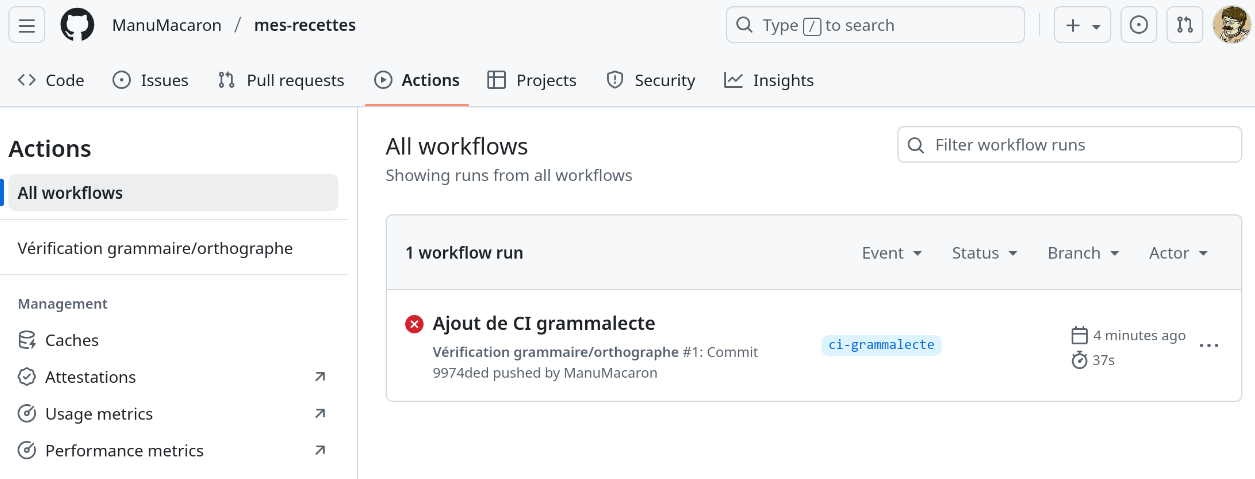
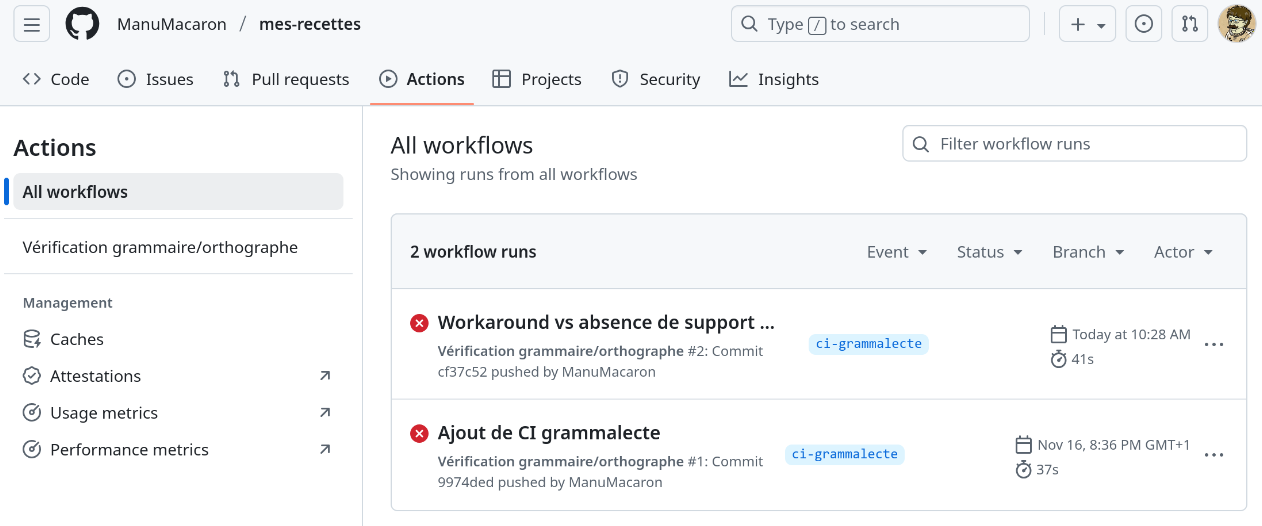
Fin du portage du chapitre CI

diff --git a/TP/src/part2/github/4-depot-personnel/3-integration-continue.md b/TP/src/part2/github/4-depot-personnel/3-integration-continue.md
@@ -342,7 +342,7 @@ jobs:
         run: python -m pip install git+https://gitlab.in2p3.fr/sonny.lion/grammalint.git
       - name: Extraction des fichiers
         uses: actions/checkout@v5
-      - name: Vérification de la grammaire/orthographe
+      - name: Exécution de grammalint
         run: python -m grammalint -i recettes/**/*.md
 ```
 
@@ -356,14 +356,14 @@ Rendez-vous ensuite dans l’interface web de GitHub, onglet **Actions**, pour
 observer le _workflow_ en action. Vous devriez voir une page similaire à
 celle-ci :
 
-![Interface GitHub - Actions](../../../images/github-actions-tab.png)
+![Onglet Actions de l'interface GitHub](../../../images/github-actions-tab.png)
 
 Dans la table de droite, chaque ligne correspond à l'exécution d'un _workflow_
 et se structure de la façon suivante :
 
-- D'abord un petit pictogramme qui indique si l'exécution a réussi ou échoué.
-  Ici, nous avons une croix rouge qui signale un échec. En cas de réussite ce
-  serait une coche verte.
+- D'abord un petit pictogramme qui indique si l'exécution est en cours (point
+  jaune), a réussi (coche verte) ou échoué (croix rouge). Ici, hélas, toutes les
+  exécutions ont échoué.
 - Ensuite un titre qui est par défaut tiré du message de commit. Vous pouvez
   le personnaliser avec l'option de _workflow_
   [`run-name`](https://docs.github.com/en/actions/reference/workflows-and-actions/workflow-syntax#run-name).
@@ -383,6 +383,273 @@ Si le _workflow_ ne s’exécute pas, vérifiez que...
 - il a bien été inclus dans un commit qui a ensuite été poussé sur GitHub.
 
 
-## TODO: Consulter les journaux du _workflow_
+## Consulter les journaux du _workflow_
 
-TODO
+En cliquant sur le titre d'une exécution d'un _workflow_ dans la liste
+précédente, on accède à une interface qui permet d'en savoir plus sur cette
+exécution :
+
+![Détail d'une exécution de
+workflow](../../../images/github-actions-workflow.png)
+
+A gauche, on trouve une liste des différents _jobs_ qui composent le _workflow_,
+où on peut cliquer sur chaque _job_ pour avoir des informations détaillées sur
+son exécution. A droite on trouve...
+
+- En haut, un rappel des propriétés de cette exécution : auteur du commit
+  déclencheur, heure à laquelle il a été poussé, etc.
+- Ensuite une visualisation des différents _jobs_ qui composent le _workflow_,
+  et de leurs relations entre elles. Ici, nous n'avons qu'un seul _job_, donc ce
+  n'est pas différent de la liste à gauche, mais si vous allez sur [un dépôt
+  avec un _workflow_ GitHub Actions plus
+  complexe](https://github.com/acts-project/acts/actions/workflows/builds.yml)
+  vous comprendrez mieux l'intérêt de cette visualisation.
+- Et en bas une liste des erreurs et avertissements éventuels issus des _jobs_.
+  Ici on y apprend que le _job_ a échoué parce qu'un processus a retourné le
+  code de retour, ce qui signale qu'une erreur est survenue dans les conventions
+  des programmes Unix.
+
+En cliquant sur le nom du _job_ à un des trois endroits où il apparaît, nous
+avons accès au détail de l'exécution du _job_ :
+
+![Détail d'une exécution de job](../../../images/github-actions-job.png)
+
+La section de gauche n'a pas changé par rapport à la visualisation du
+_workflow_, mais à gauche on observe maintenant une liste des différentes étapes
+d'exécution du _job_ avec la possibilité de visualiser les sorties consoles
+émises par chaque étape. Vous constaterez que...
+
+- En plus des 3 étapes que nous avons saisi nous-même dans le fichier de 
+  _workflow_, GitHub en ajoute implicitement quelques autres au début et à la
+  fin pour mettre en place la machine virtuelle, démarrer le conteneur Docker,
+  faire le ménage à la fin...
+- Initialement, la visualisation des étapes du _job_ va droit à l'essentiel :
+  les sorties consoles des étapes qui ont réussi sont masquées, et la vue est
+  automatiquement centrée sur la première étape qui a échoué. Il est bien sûr
+  possible d'aller examiner les autres étapes du _job_ si besoin en cliquant
+  simplement sur leur nom.
+
+Nous voyons ici que la cause du signalement d'erreur est le signalement de
+fautes d'orthographe et de typographie par Grammalecte :
+
+- Le nom d'utilisateur « ManuMacaron » ne faisant pas partie du dictionnaire, il
+  est traité comme une faute d’orthographe.
+- En typographie française, les quantités et leurs unités doivent être séparées
+  par un espace insécable. Celui-ci est visuellement identique à l'espace
+  normal, mais il se comporte différemment au niveau de l'affichage du texte car
+  il est interdit de remplacer un espace insécable par un saut de ligne. Ici,
+  nous n'avons pas respecté cette règle de typographie au niveau de nos temps de
+  préparation, repos et cuisson.
+
+La première est erreur est un faux positif que l'on corrigerait normalement en
+ajoutant le nom au dictionnaire utilisé pour la vérification orthographique.
+Mais Grammalecte ne simplifie hélas pas du tout cette opération, les ajouts au
+dictionnaire devant être effectués via un fichier JSON utilisant un format
+complexe.
+
+Nous vous proposons à la place de désactiver la vérification orthographique et
+grammaticale pour le champ `auteur:` des en-tête de recettes, car ce champ est
+très sujet aux faux positifs de correcteur orthographique. Cela peut être fait
+de la façon suivante :
+
+**FIXME: Au niveau de grammalint, ajouter le support pour ignorer des champs
+dans le frontmatter, puis ajouter instructions ici.**
+
+Pour ce qui concerne les espaces insécables, ils ne sont malheureusement pas
+nativement disponibles sur le clavier français, donc on est forcé de les saisir
+avec une procédure un peu alambiquée et spécifique au système d'exploitation
+utilisé. Dans cette formation, nous utilisons Linux, où la procédure la plus
+universelle[^input-sequences] est de…
+
+- Presser le raccourci clavier Ctrl+Shift+U.
+- Taper le texte « A0 », qui est le code hexadécimal de l’espace insécable.
+- Appuyer sur la barre d'espace pour valider la saisie.
+
+[^input-sequences]: Il existe [beaucoup d'autres méthodes pour saisir des
+                    espaces insécables sous
+                    Linux](https://ladedu.com/how-to-insert-a-non-breaking-space-on-linux/).
+                    Mais beaucoup sont spécifiques à une application donnée, un
+                    environnement de bureau donné, nécessitent une configuration
+                    préalable, etc. Le raccourci Ctrl+Shift+U a l'avantage
+                    d'être activé par défaut dans tous les environnements
+                    graphiques Linux que l'auteur utilise couramment.
+
+
+## Corriger et relancer le _workflow_
+
+Décidez d'abord si les erreurs signalées par Grammalecte proviennent de réelles
+fautes de votre part ou de faux positifs de l'analyse du correcteur. Cette
+réflexion est essentielle : en intégration continue, il ne faut pas corriger
+mécaniquement, mais comprendre la cause et la pertinence de chaque alerte.
+
+Puis, selon les erreurs détectées…
+
+1. Corrigez vos fichiers Markdown localement ou ajustez la configuration de
+   Grammalecte au niveau de la définition du _workflow_.
+2. Versionnez les modifications, puis effectuez un nouveau _push_.
+3. GitHub exécutera automatiquement le _workflow_ à nouveau.
+
+
+## Artefacts et rapports d’analyse
+
+Les **artefacts** sont des fichiers produits par un _job_ (rapports, journaux,
+fichiers d’analyse, etc.) et conservés par GitHub. Ils peuvent être téléchargés
+directement depuis l’interface web pendant une certaine durée après l'exécution
+du _workflow_, 90 jours par défaut.
+
+Pour générer un rapport JSON avec `grammalint`, modifiez l'étape « Exécution de grammalint » du _job_
+`grammaire_et_orthographe` pour ajouter l'option `-o report.json`:
+
+```yml
+jobs:
+  grammaire_et_orthographe:
+    # ... options globales du job ...
+    steps:
+      # ... étapes précédentes ...
+      - name: Exécution de grammalint
+        run: python -m grammalint -i recettes/**/*.md -o report.json
+```
+
+Puis ajoutez une étape de mise en ligne d'artefact en utilisant l’action
+[`upload-artifact`](https://github.com/actions/upload-artifact) :
+
+```yml jobs:
+  grammaire_et_orthographe:
+    # ... options globales du job ...
+    steps:
+      # ... étapes précédentes ...
+      - name: Mise en ligne du rapport JSON
+        uses: actions/upload-artifact@v5
+        with:
+          name: grammalint-report
+          path: recettes/report.json
+          retention-days: 7
+        if: failure()
+```
+
+C'est l'occasion d'introdure une paire de nouveaux éléments du côté de la
+syntaxe de déclaration d'une étape de _job_ :
+
+- Avec
+  [`id`](https://docs.github.com/en/actions/reference/workflows-and-actions/workflow-syntax#jobsjob_idstepsid),
+  on peut donner un identifiant technique à une étape d'un _job_, ce qui permet
+  derrière d'y référence au sein d'autres étapes.
+- Avec
+  [`with`](https://docs.github.com/en/actions/reference/workflows-and-actions/workflow-syntax#jobsjob_idstepswith)
+  on peut configurer les paramètres d'entrée d'une action. Ici nous voulons…
+  * Donner un nom plus clair à l'artefact (c’est `artifact` par défaut).
+  * Indiquer quels fichiers doivent être sauvegardés.
+  * Réduire la durée de rétention de l'artefact à une semaine afin d'économiser
+    le stockage.
+- Avec
+  [`if`](https://docs.github.com/en/actions/reference/workflows-and-actions/workflow-syntax#jobsjob_idstepsif)
+  on peut configurer dans quels cas une étape s'exécute.
+  - Par défaut, cette option a la valeur
+    [`success()`](https://docs.github.com/en/actions/reference/workflows-and-actions/expressions#success),
+    ce qui signifie qu'on n'exécute l'étape que si les étapes précédentes ont
+    réussi. Ce n'est pas pertinent ici puisque Grammalecte n'émet des
+    informations intéressantes en sortie que quand l'analyse a échoué.
+  - Avec la condition
+    [`failure()`](https://docs.github.com/en/actions/reference/workflows-and-actions/expressions#failure),
+    on précise qu'on veut au contraire mettre en ligne un artefact seulement 
+    quand le _workflow_ échoue.[^missing-file]
+
+L'artefact `grammalint-report` apparaîtra alors en bas de la page du _workflow_,
+où il sera possible de le télécharger pour examen plus approfondi.
+
+Nous le verrons plus en détail dans une prochaine séquence, mais notez que les
+artefacts peuvent aussi être utilisés pour transférer des fichiers entre
+différents _jobs_ d’un même _workflow_.
+
+[^missing-file]: Les plus aguerris d'entre vous auront remarqué que le
+                 _workflow_ peut échouer pour d'autres raisons qu'une erreur
+                 Grammalecte, par exemple si l'installation de grammalint
+                 échoue. Ce n'est pas un gros problème ici puisque l'action
+                 `upload-artifact` gère correctement l'absence de fichier en
+                 émettant un _warning_ et le _job_ est condamné à échouer de
+                 toutes façons. Mais on peut si besoin demander que l'action
+                 `upload-artifact` ne s'exécute que si l'étape d'exécution de
+                 grammalint a échoué en utilisant [une condition `if` plus
+                 complexe](https://docs.github.com/en/actions/reference/workflows-and-actions/expressions#failure-with-conditions).
+
+
+## Conclusion
+
+Dans ce TP, nous avons découvert comment GitHub permet de mettre en place une
+**intégration continue** simple mais efficace pour nos projets. Nous avons
+appris à :
+
+- Définir un _workflow_ d’intégration continue
+- Créer et configurer un _job_ d’analyse automatique avec Grammalecte
+- Surveiller l’exécution du _workflow_ et interpréter les résultats dans
+  l’interface GitHub
+- Générer et consulter des rapports d’analyse sous forme d’artefacts
+
+Avec ces notions, nous disposons désormais d’un outil capable de vérifier
+automatiquement la qualité de nos fichiers Markdown à chaque modification.
+
+Dans la prochaine séquence, nous irons plus loin en découvrant comment enchaîner
+plusieurs _jobs_, gérer des dépendances entre eux et construire des _workflows_
+plus complets adaptés à des projets collaboratifs.
+
+
+---
+
+## Exercices
+
+1. Ajoutez un second fichier de recette (avec des fautes), vérifiez que
+   l’analyse le prend bien en compte et que le _workflow_ échoue.
+2. Téléchargez le rapport JSON depuis la page du _workflow_ et consultez son
+   contenu.
+3. Corrigez les fautes, effectuez un _push_ et vérifiez que le _workflow_
+   réussit.
+4. Fusionnez les changements de `ci-grammalecte` dans `main` en utilisant une
+   _pull request_.
+
+Notez que l'interface de passage en revue des _pull requests_ vous permet de
+savoir si un _workflow_ d'intégration continue a réussi ou échoué avant
+d'effectuer la fusion dans `main`. En passant systématiquement par une branche
+dédiée et une _pull request_, vous pouvez donc facilement éviter d'intégrer à
+`main` des changements qui ne respectent pas votre politique qualité.
+
+Dans cette optique, nous verrons bientôt comment garantir que toutes les
+modifications à un projet passent par une _pull request_ en interdisant le
+_push_ direct de changements dans `main`.
+
+
+---
+
+## Informations complémentaires
+
+### Conditionner l’exécution d’un _workflow_
+
+Pour l'instant, notre _workflow_ est configuré pour s'exécuter à chaque _push_
+sur n'importe quelle branche. Mais il arrive parfois qu'on aie envie d'effectuer
+des analyses trop coûteuses pour que ce soit acceptable, par exemple une
+recompilation de pile logicielle complète qui dure des heures.
+
+Dans ce cas, nous vous enjoignons à explorer de plus près la documentation des
+[événements
+déclencheurs](https://docs.github.com/en/actions/reference/workflows-and-actions/events-that-trigger-workflows),
+et en particulier à considérer les configurations suivantes:
+
+- Seulement lorsque des _commits_ sont intégrés à `main`.
+  - Avantage : Pas d'utilisation des ressources CI pendant la phase de
+    développement.
+  - Inconvénient : Les problèmes ne sont trouvés qu'après intégration dans
+    `main` et doivent être résolus après coup avec des outils comme `git
+    revert`.
+- Lorsqu'une _pull request_ est ouverte ou mise à jour.
+  - Avantage : Permet de trouver les problèmes avant intégration.
+  - Inconvénient : Plus coûteux que l'option précédente, surtout sur des projets
+    très actifs avec beaucoup de _pull requests_.
+- A intervalle régulier (ex : chaque nuit, chaque week-end…)
+  - Avantage : Le coût n’augmente pas quand l’activité au sein du dépôt
+    augmente.
+  - Inconvénient : Même quand les ressources ne sont pas utilisées, celui qui
+    soumet des changements doit attendre longtemps pour avoir un retour de la
+    CI.
+
+Il s'agit d'un des nombreux leviers dont on dispose pour garder sous contrôle la
+consommation de ressources associée à l'intégration continue. Plus tard dans ce
+cours, vous verrez un exemple de la deuxième politique à l'oeuvre.
